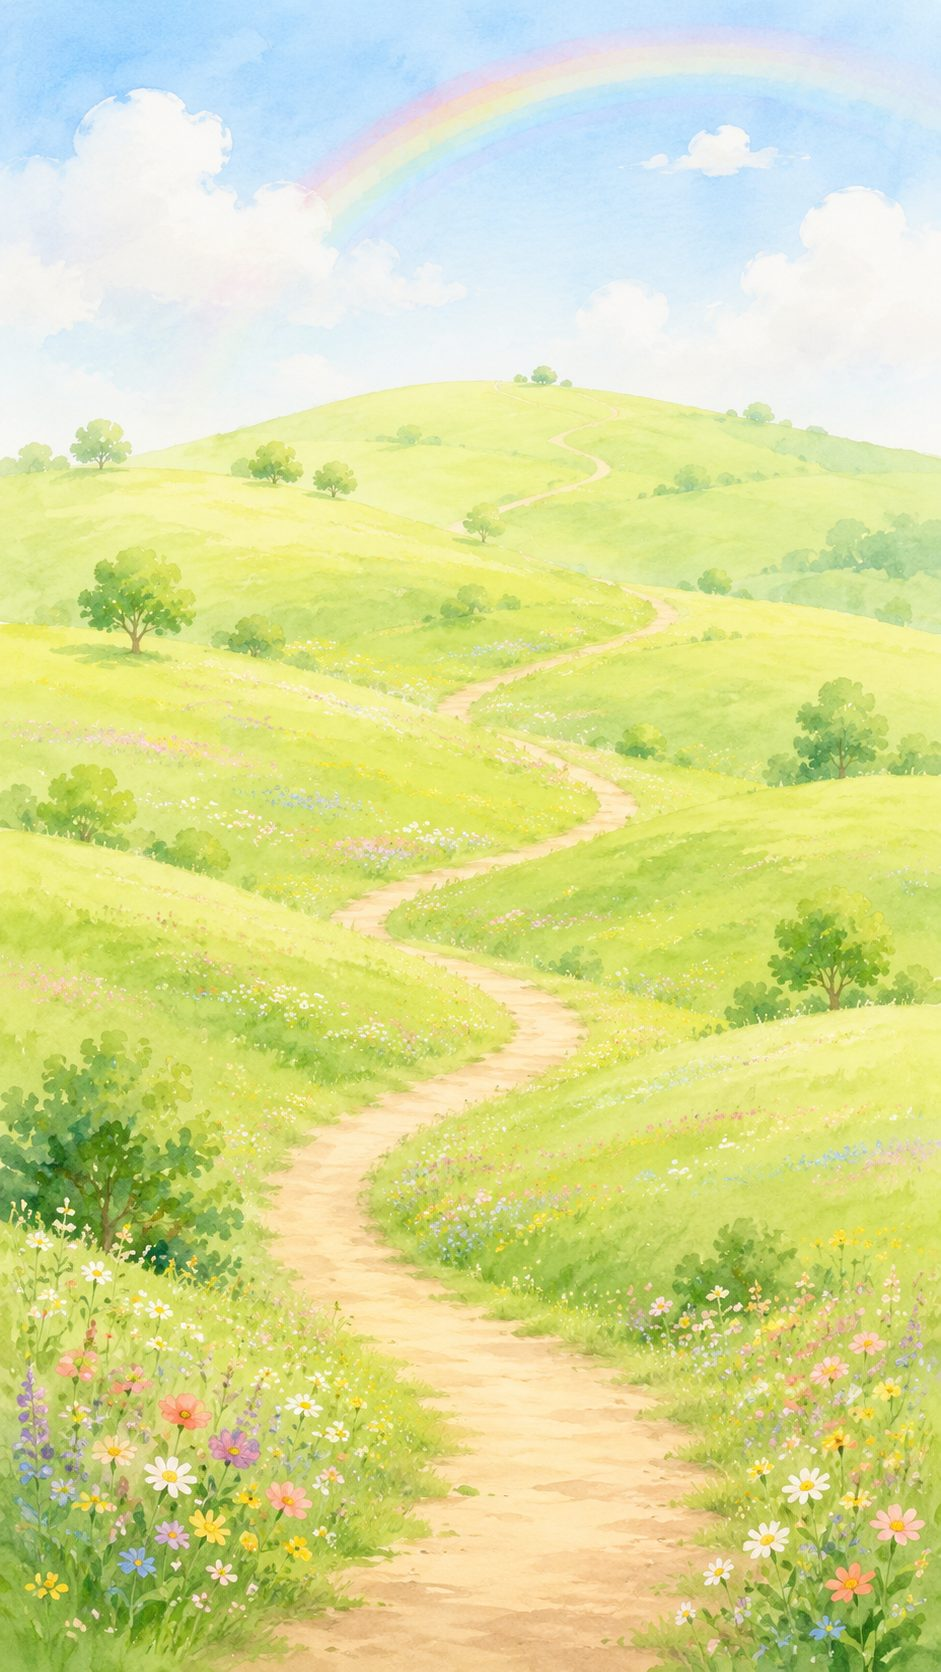
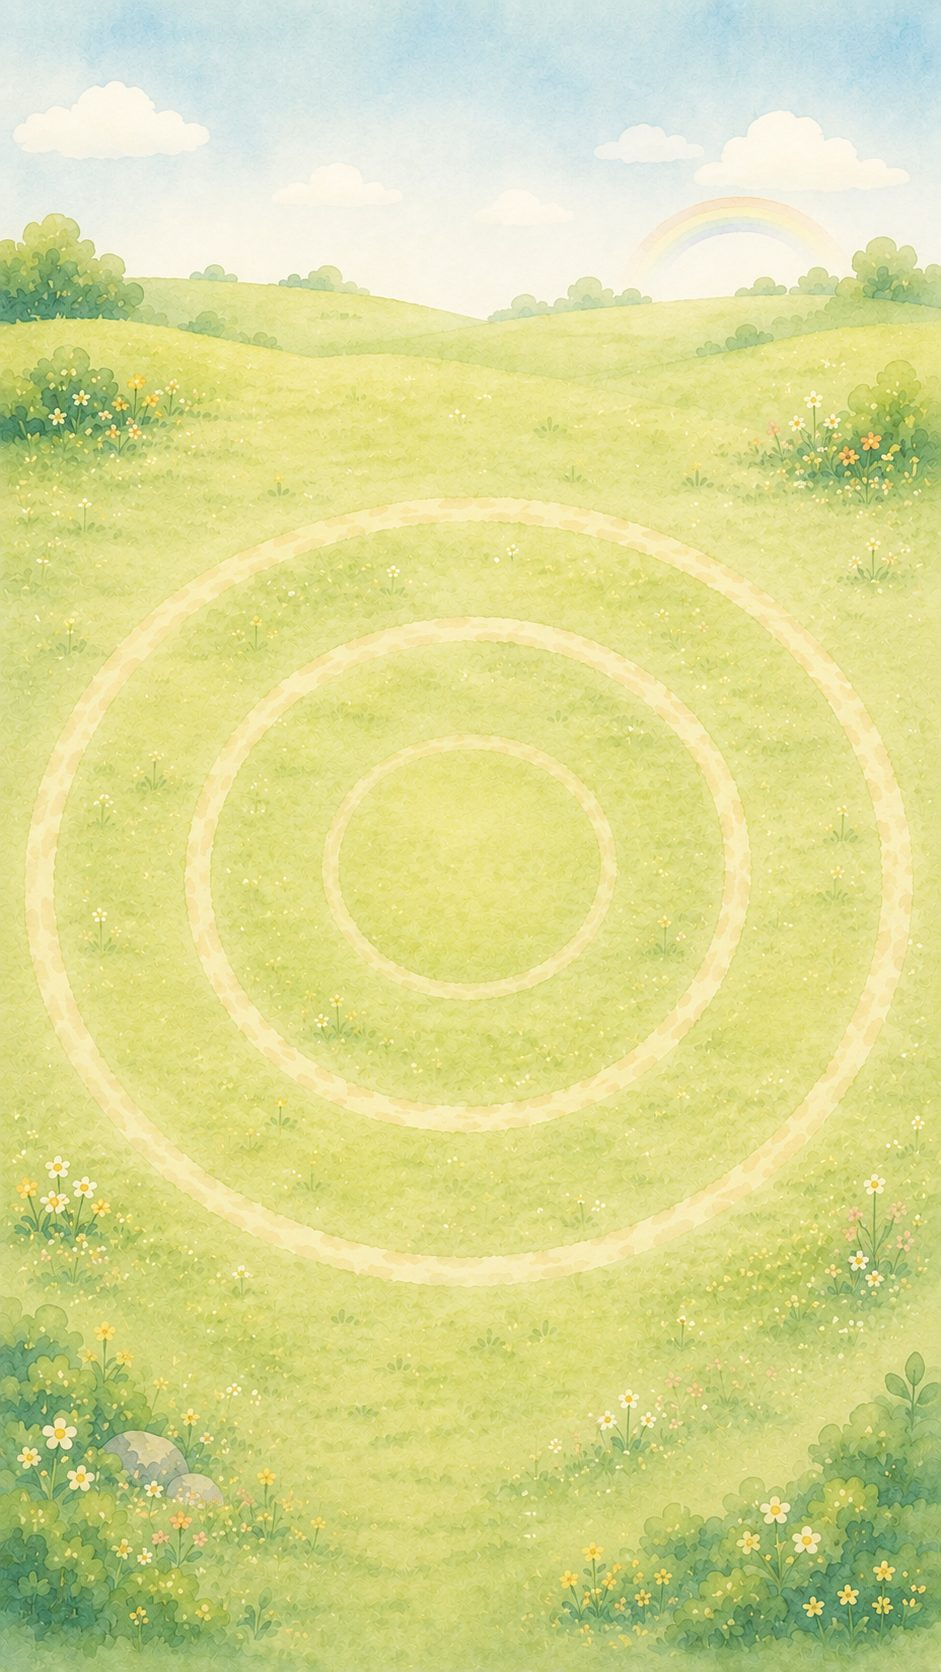
숲 배경을 동심원 오솔길 그림으로 교체하고, 우리 반 나무를 정중앙에 두고 학생들을 가까운 원부터 채워 둘러싸는 배치로 변경

diff --git a/src/App.jsx b/src/App.jsx
@@ -1142,32 +1142,26 @@ export default function App() {
   const daysSinceStart = classInfo?.start_date
     ? Math.min(challengeDays, Math.max(1, Math.floor((Date.now() - new Date(classInfo.start_date + "T00:00:00").getTime()) / 86400000) + 1))
     : 1;
-  // 산 능선처럼 위(꼭대기)는 좁고 아래(산기슭)로 갈수록 넓어지는 줄(행)에
-  // 나무를 나눠 담아서, 학생이 아무리 많아도 서로 겹치거나 화면 밖으로
-  // 잘리지 않게 한다. 우리 반 나무는 단독으로 전체 줄 중 중간쯤에 끼워 넣어
-  // 화면 가운데에 혼자 자리잡게 한다.
-  const FOREST_MAX_ROW = 5;
-  const forestRows = [];
+  // 배경 그림에 그려진 3개의 동심원 오솔길을 따라, 우리 반 나무는 정가운데,
+  // 학생들은 가까운 원부터 채워서 바깥 원으로 빙 둘러싸는 형태로 배치한다.
+  // (반지름은 배경 그림 속 오솔길 위치를 실제로 측정해서 정한 값)
+  const FOREST_CENTER_X = 50.5;
+  const FOREST_CENTER_Y = 52.1;
+  const FOREST_RING_BASE_R = 0.167; // 첫 번째(가장 안쪽) 원의 반지름 — 폭 대비 비율
+  const FOREST_RING_STEP_R = 0.137; // 원이 하나 늘어날 때마다 넓어지는 반지름
+  const FOREST_RING_ARC_UNIT = 0.131; // 나무 한 명이 원 둘레에서 차지하는 길이(비율)
+  const FOREST_IMAGE_ASPECT = 941 / 1672; // 가로 기준 비율을 세로 기준으로 바꿀 때 씀 (원이 타원이 되지 않도록)
+  const forestRings = [];
   {
-    const items = allTrees.map((t) => ({ kind: "student", ...t }));
-    let rowSize = 2;
+    const items = [...allTrees];
+    let ringIndex = 0;
     while (items.length) {
-      const size = Math.min(rowSize, FOREST_MAX_ROW, items.length);
-      forestRows.push(items.splice(0, size));
-      rowSize += 1;
+      const radius = FOREST_RING_BASE_R + ringIndex * FOREST_RING_STEP_R;
+      const capacity = Math.max(6, Math.round((2 * Math.PI * radius) / FOREST_RING_ARC_UNIT));
+      forestRings.push({ radius, members: items.splice(0, capacity) });
+      ringIndex += 1;
     }
-    const insertAt = Math.min(forestRows.length, Math.floor(forestRows.length / 2));
-    forestRows.splice(insertAt, 0, [{ kind: "communal" }]);
   }
-  // 배경 그림은 위쪽 GROUND_FRACTION 비율만큼이 하늘, 나머지가 땅이라 나무는
-  // 전부 땅 영역(퍼센트 기준)에만 놓이게 하고, 그 안에서 한 줄당 FOREST_ROW_PX만큼
-  // 자리를 줘서 학생이 많아져도 나무 크기가 일정하게 유지되게 한다.
-  const FOREST_ROW_PX = 128;
-  const FOREST_BOTTOM_PAD = 70;
-  const GROUND_FRACTION = 0.62;
-  const groundPx = forestRows.length * FOREST_ROW_PX + FOREST_BOTTOM_PAD;
-  const forestHeight = Math.round(groundPx / GROUND_FRACTION);
-  const forestSkyPx = forestHeight - groundPx;
   const Z = { communal: 15, tabbar: 100, timer: 200, reflect: 210, card: 250, toast: 400 };
 
   const TABS = [
@@ -1484,33 +1478,32 @@ export default function App() {
                     <div style={{ height: 9, background: "#ffffff88", borderRadius: 6, overflow: "hidden" }}>
                       <div style={{ width: `${classPct}%`, height: "100%", borderRadius: 6, background: `linear-gradient(90deg, ${C.leafL}, ${C.green})`, transition: "width .6s ease" }} /></div>
                   </div>
-                  <div style={{ position: "relative", height: forestHeight, marginTop: 4, overflow: "hidden",
+                  <div style={{ position: "relative", width: "100%", aspectRatio: "941 / 1672", marginTop: 4, overflow: "hidden",
                     backgroundImage: `url(${forestBg})`, backgroundSize: "100% 100%", backgroundRepeat: "no-repeat" }}>
                     <div style={{ position: "absolute", left: "14%", top: "18%", fontSize: 20, zIndex: 40, animation: "cs-float 6s ease-in-out infinite" }}>🦋</div>
                     <div style={{ position: "absolute", right: "12%", top: "44%", fontSize: 15, zIndex: 40, animation: "cs-float 7s ease-in-out infinite .8s" }}>🦋</div>
-                    {forestRows.map((row, r) => {
-                      const rowScale = forestRows.length > 1 ? 0.65 + 0.35 * (r / (forestRows.length - 1)) : 1;
-                      const topPx = forestSkyPx + r * FOREST_ROW_PX;
-                      return row.map((item, slot) => {
-                        const leftPct = ((slot + 1) / (row.length + 1)) * 100;
-                        if (item.kind === "communal") {
-                          return (
-                            <div key="communal" onClick={() => setShowCommunalDetail(true)} style={{ position: "absolute", left: `${leftPct}%`, top: topPx,
-                              transform: "translate(-50%,-100%)", zIndex: Z.communal, cursor: "pointer",
-                              display: "flex", flexDirection: "column", alignItems: "center", animation: bloomPulse ? "cs-pulse 1.2s ease" : "none" }}>
-                              <div style={{ animation: bloomPulse ? "none" : "cs-sway 8s ease-in-out infinite", transformOrigin: "bottom center" }}>
-                                <CommunalTree size={104 * rowScale} pct={communalPct} stage={communalStageInfo.stage} /></div>
-                              <div style={{ marginTop: 1, background: "#fff", padding: "3px 13px", borderRadius: 16, fontSize: 12, color: C.greenDk,
-                                boxShadow: "0 2px 6px #0002", border: `1px solid ${C.leafL}` }} className="cs-jua">🌳 우리 반 나무</div>
-                            </div>
-                          );
-                        }
-                        const t = item;
+                    <div onClick={() => setShowCommunalDetail(true)} style={{ position: "absolute", left: `${FOREST_CENTER_X}%`, top: `${FOREST_CENTER_Y}%`,
+                      transform: "translate(-50%,-100%)", zIndex: Z.communal, cursor: "pointer",
+                      display: "flex", flexDirection: "column", alignItems: "center", animation: bloomPulse ? "cs-pulse 1.2s ease" : "none" }}>
+                      <div style={{ animation: bloomPulse ? "none" : "cs-sway 8s ease-in-out infinite", transformOrigin: "bottom center" }}>
+                        <CommunalTree size={116} pct={communalPct} stage={communalStageInfo.stage} /></div>
+                      <div style={{ marginTop: 1, background: "#fff", padding: "3px 13px", borderRadius: 16, fontSize: 12, color: C.greenDk,
+                        boxShadow: "0 2px 6px #0002", border: `1px solid ${C.leafL}` }} className="cs-jua">🌳 우리 반 나무</div>
+                    </div>
+                    {forestRings.map((ring, ringIndex) => {
+                      const scale = Math.max(0.7, 1 - ringIndex * 0.08);
+                      const n = ring.members.length;
+                      const angleOffset = (360 / (2 * Math.max(n, 1))) * (ringIndex % 2);
+                      return ring.members.map((t, i) => {
+                        const angleDeg = angleOffset + (360 / n) * i - 90;
+                        const rad = (angleDeg * Math.PI) / 180;
+                        const leftPct = FOREST_CENTER_X + ring.radius * 100 * Math.cos(rad);
+                        const topPct = FOREST_CENTER_Y + ring.radius * 100 * Math.sin(rad) * FOREST_IMAGE_ASPECT;
                         return (
-                          <div key={t.me ? "me" : t.id} onClick={() => setSelected(t)} style={{ position: "absolute", left: `${leftPct}%`, top: topPx,
-                            transform: "translate(-50%,-100%)", zIndex: 10 + r, cursor: "pointer", display: "flex", flexDirection: "column", alignItems: "center" }}>
+                          <div key={t.me ? "me" : t.id} onClick={() => setSelected(t)} style={{ position: "absolute", left: `${leftPct}%`, top: `${topPct}%`,
+                            transform: "translate(-50%,-100%)", zIndex: 10 + ringIndex, cursor: "pointer", display: "flex", flexDirection: "column", alignItems: "center" }}>
                             <div style={{ animation: t.reading ? "cs-sway 2.6s ease-in-out infinite" : "none", transformOrigin: "bottom center" }}>
-                              <Tree stage={t.stage} size={72 * rowScale} reading={t.reading} accessories={t.accessories} /></div>
+                              <Tree stage={t.stage} size={72 * scale} reading={t.reading} accessories={t.accessories} /></div>
                             <div style={{ marginTop: 1, background: t.me ? "#fff" : "#ffffffcc", border: t.me ? `2px solid ${C.gold}` : "1px solid #fff",
                               borderRadius: 10, padding: "1px 7px", textAlign: "center", boxShadow: "0 2px 4px #0000000f" }}>
                               <div className="cs-hand" style={{ fontSize: 13.5, lineHeight: 1.15, color: C.greenDk }}>{t.nick}</div>
